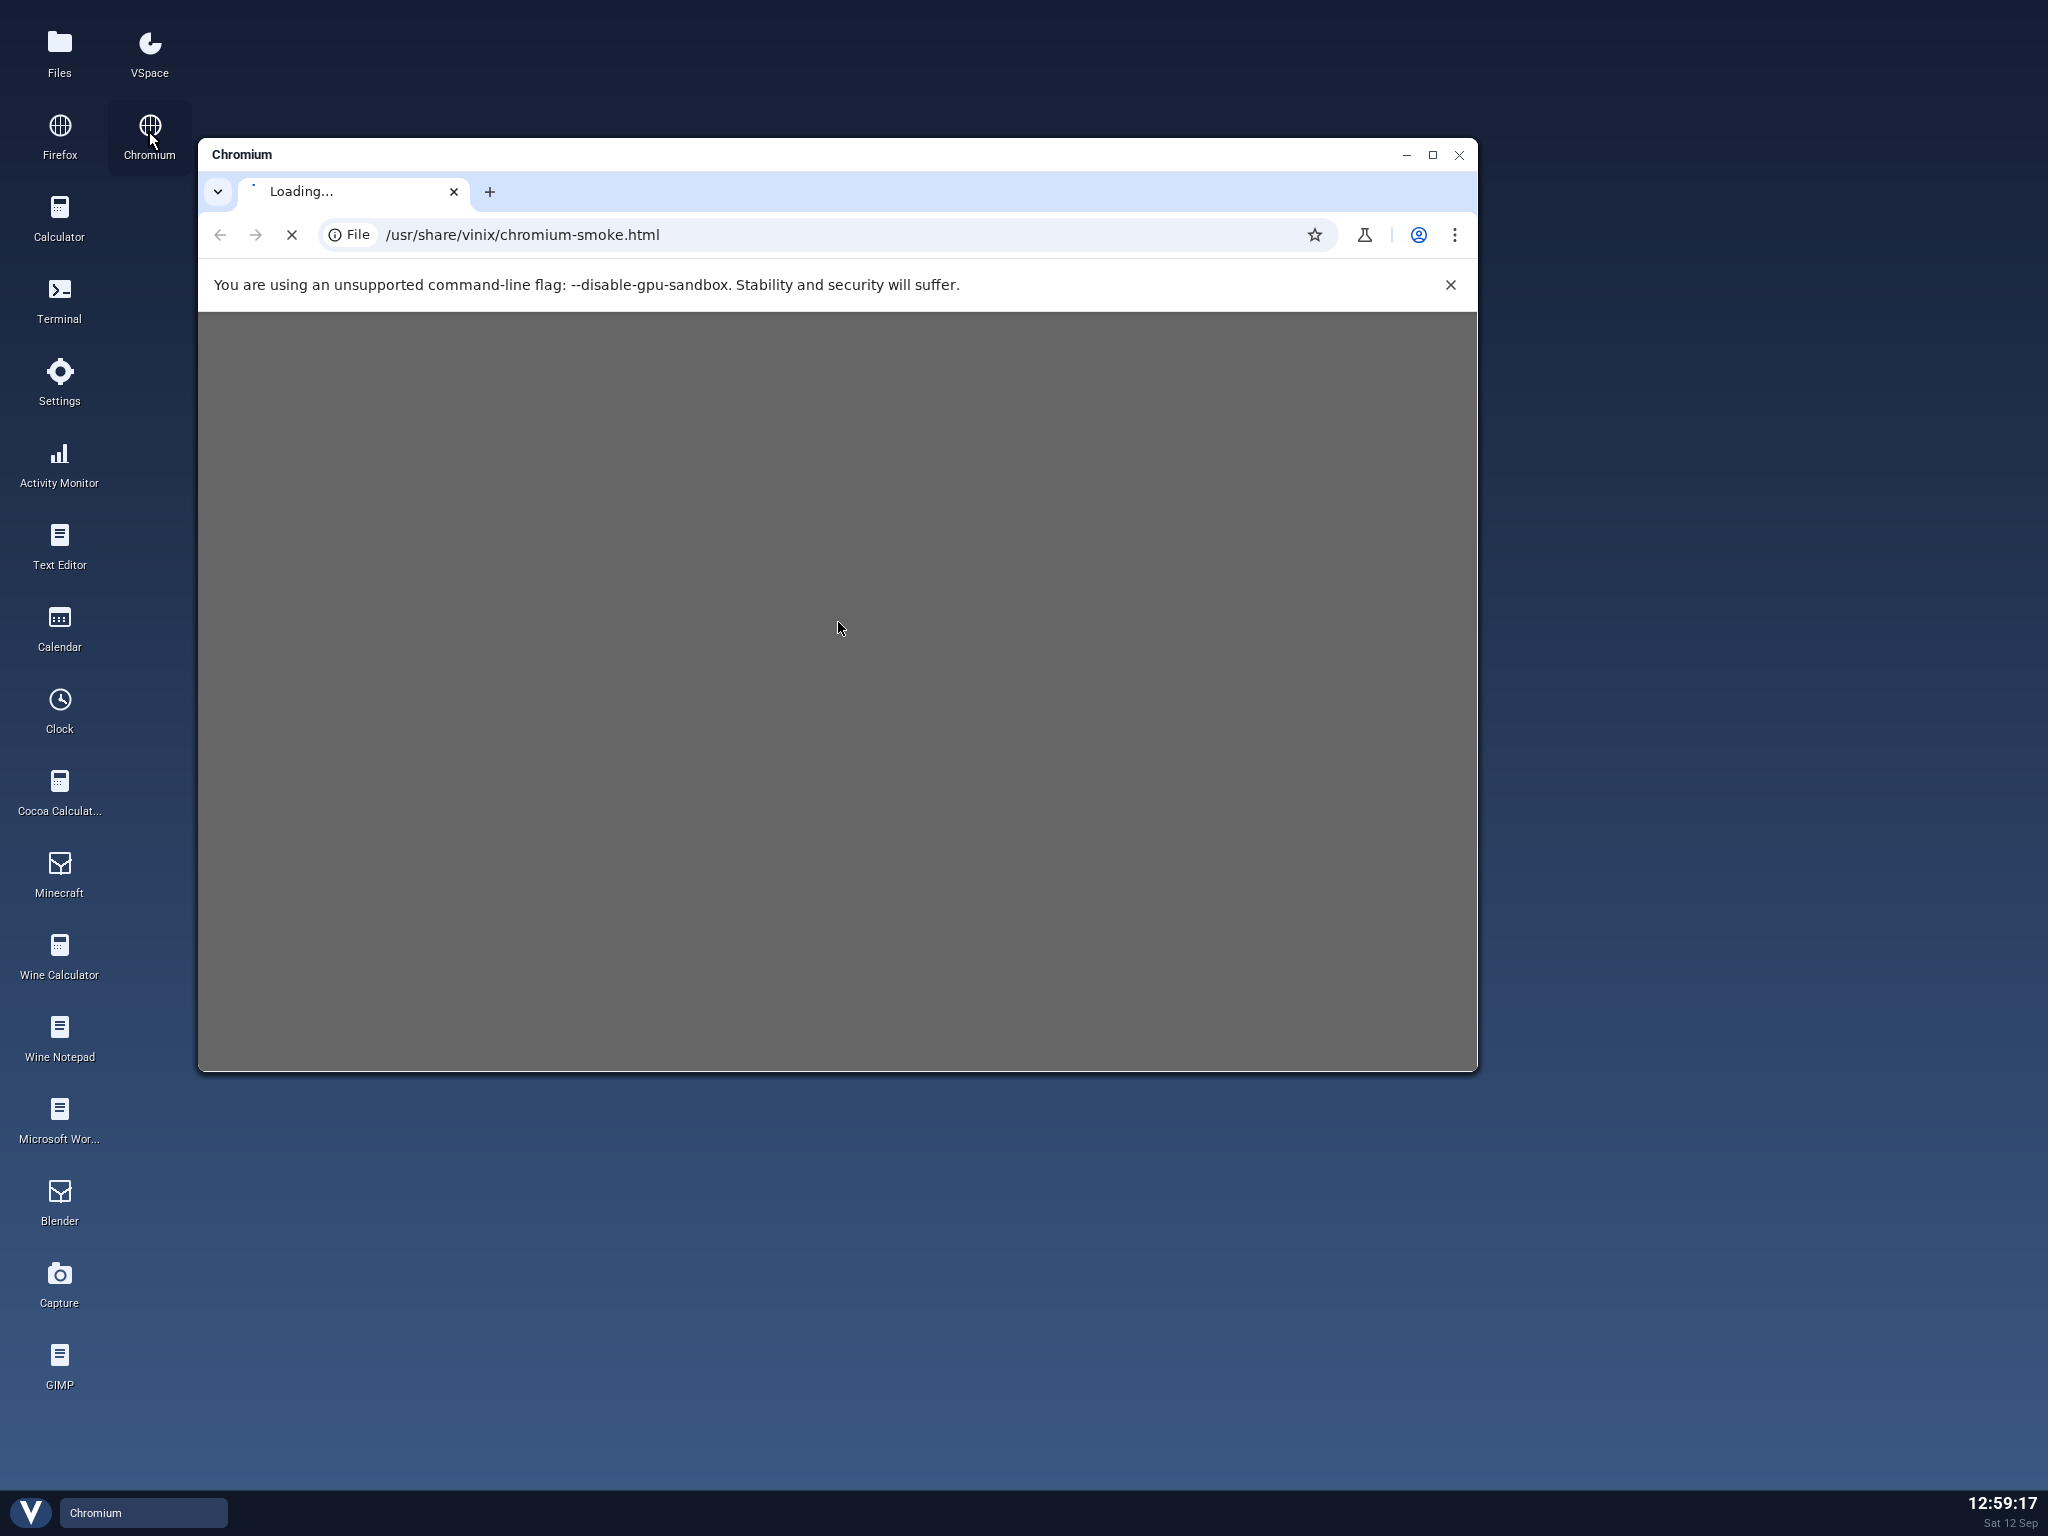
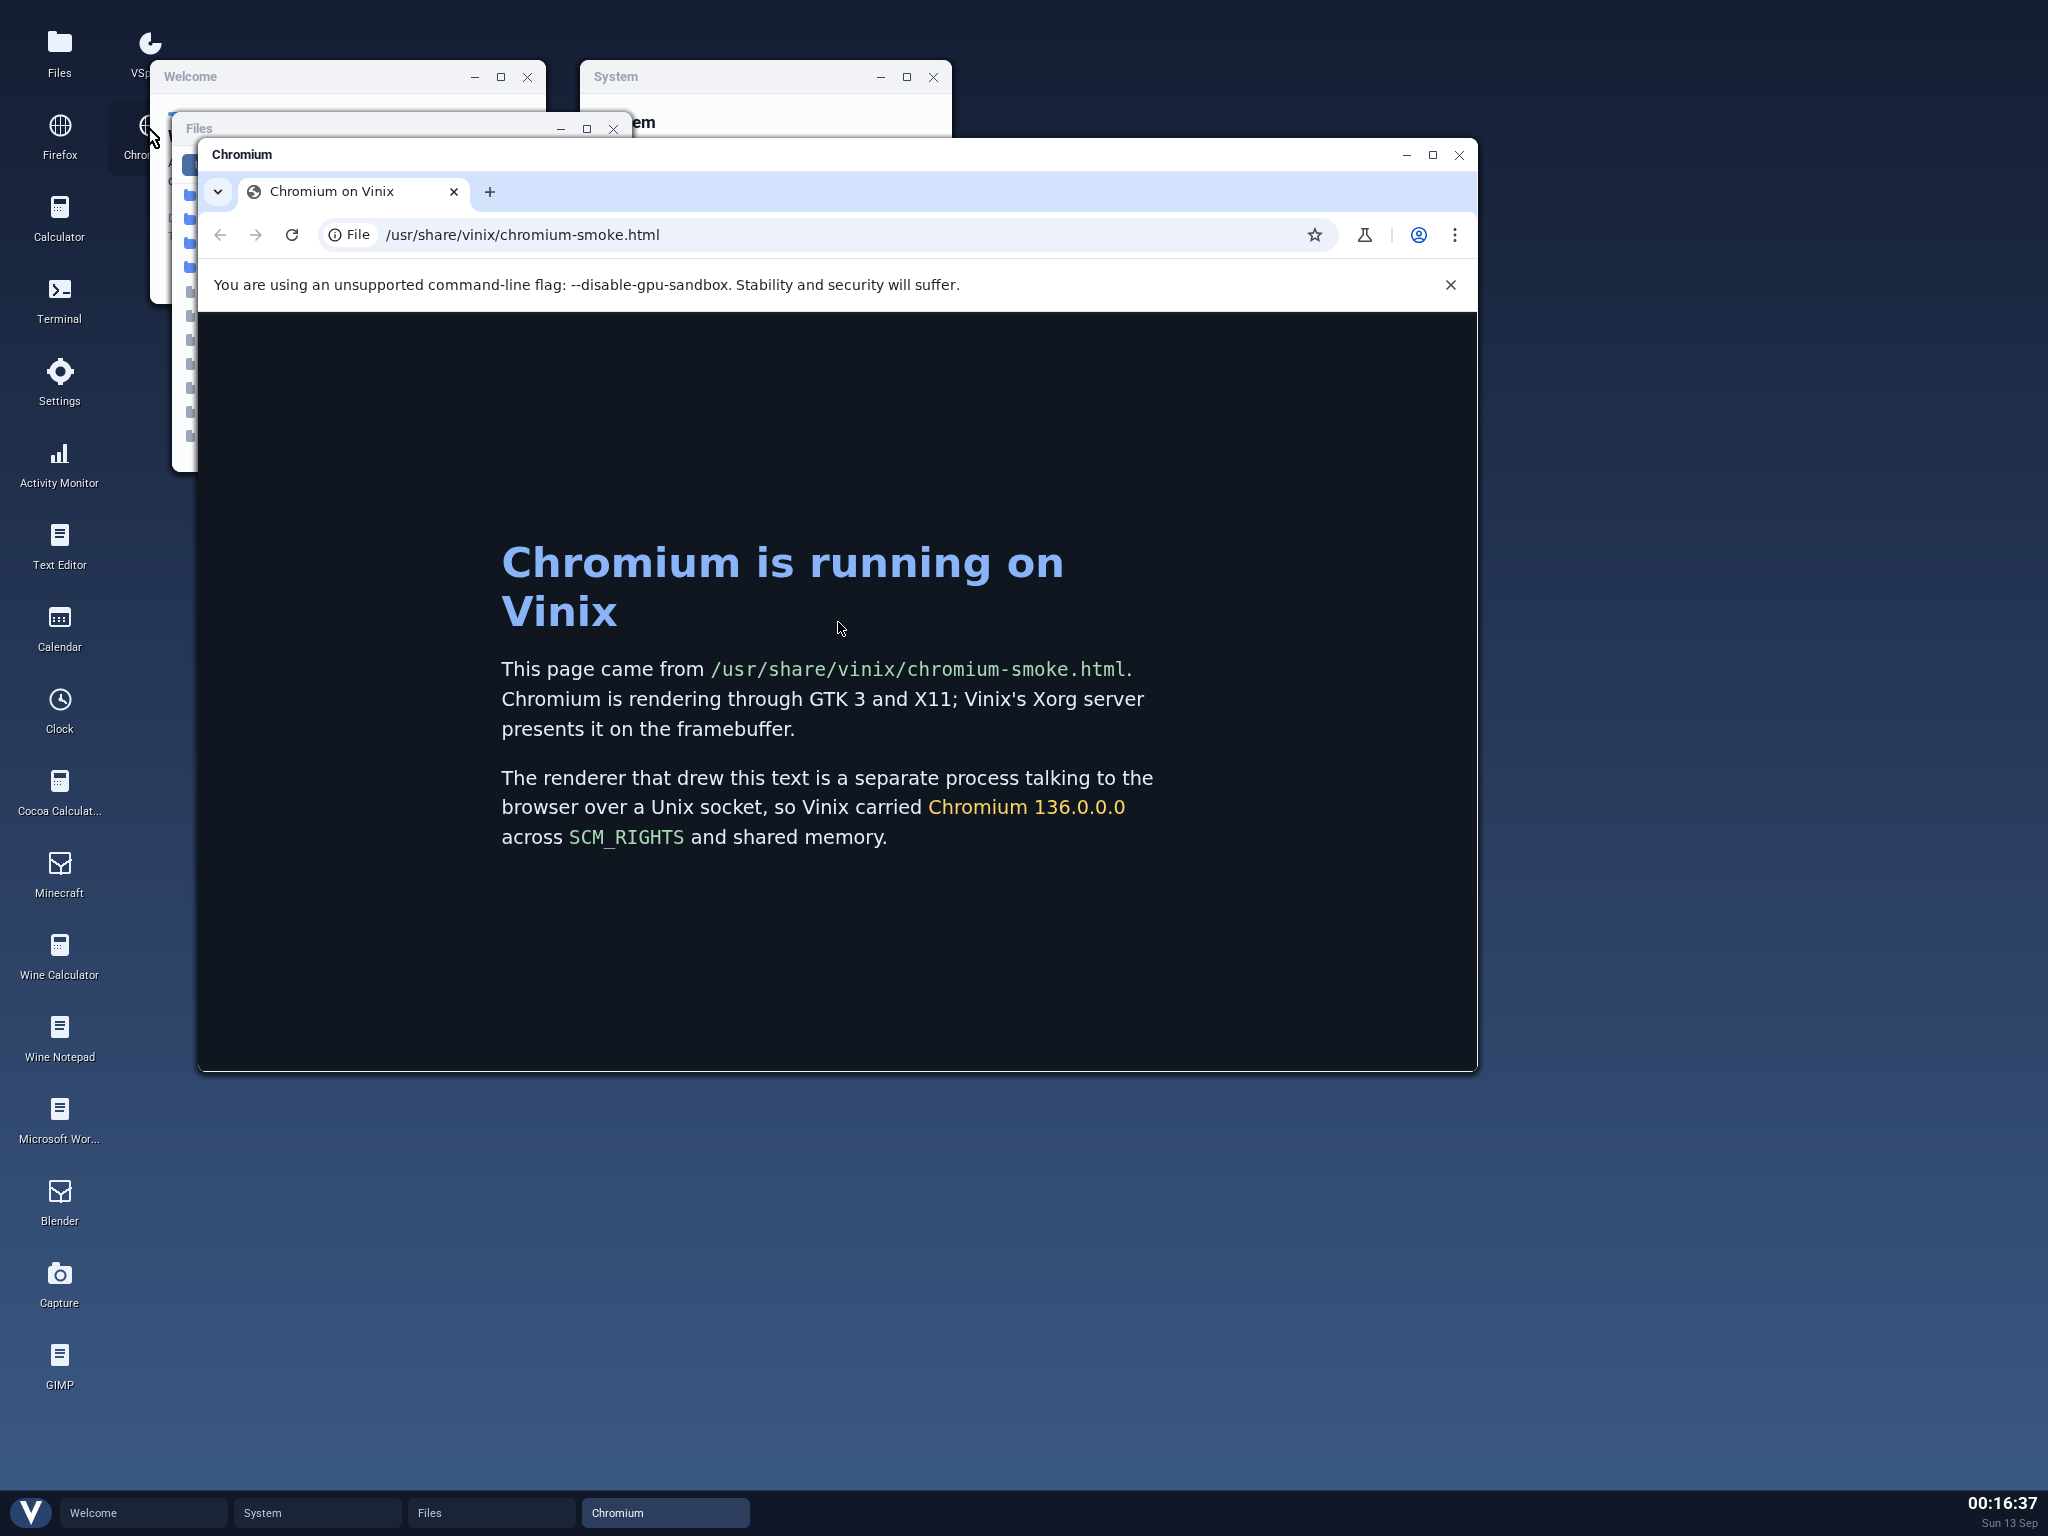
proc: keep a released pid out of use while its group still exists
A process group outlives the process that named it: the leader can exit while
its members keep running, and the group keeps its number. Handing that number
straight back to the next process to be created gives a process a pid equal to
the group it just inherited from its parent, which makes it the leader of a
group it never created -- and a leader is refused a session of its own.

Chromium met this four processes below the browser. Its crash handler forks,
the fork lands on the pid of a browser process that had already exited after
calling setsid(), and setsid() in the new process returns EPERM. Crashpad
treats that as fatal, so the browser died on every launch from the desktop with
nothing on screen but "Chromium exited."

So skip a candidate pid that any live process still names as its process group
or its session, which is the rule Linux keeps for the same reason.

diff --git a/tests/qemu-core/test.c b/tests/qemu-core/test.c
@@ -279,6 +279,58 @@ static int test_shared_mapping_visible_to_readers(void)
 	return 0;
 }
 
+/* A process group outlives the process that named it. If the leader's pid is
+ * handed to a new process while the group still has members, that process can
+ * be given a pid equal to the group it inherits -- making it a group leader by
+ * accident, and refusing it a session of its own. Chromium's crash handler,
+ * four processes below the browser, treats that refusal as fatal.
+ *
+ * A: leader of its own session. B: its child, which keeps the group alive
+ * after A exits. C: B's child, which must not be handed A's released pid. */
+static int test_released_pid_is_not_reused_while_its_group_lives(void)
+{
+	int result[2];
+	CHECK(pipe(result) == 0);
+
+	pid_t a = fork();
+	CHECK(a >= 0);
+	if (a == 0) {
+		close(result[0]);
+		if (setsid() == -1)
+			_exit(1);
+		pid_t b = fork();
+		if (b < 0)
+			_exit(1);
+		if (b == 0) {
+			/* Outlive A, so its pid is free while its group is not. */
+			sleep(2);
+			pid_t c = fork();
+			if (c < 0)
+				_exit(1);
+			if (c == 0) {
+				unsigned char inherited_its_own_group =
+				    (getpid() == getpgid(0)) ? 1 : 0;
+				ssize_t wrote = write(result[1],
+				    &inherited_its_own_group, 1);
+				_exit(wrote == 1 ? 0 : 1);
+			}
+			int status = 0;
+			waitpid(c, &status, 0);
+			_exit(0);
+		}
+		_exit(0);
+	}
+
+	CHECK(close(result[1]) == 0);
+	CHECK(reap_ok(a) == 0);
+	unsigned char inherited_its_own_group = 1;
+	CHECK(read(result[0], &inherited_its_own_group, 1) == 1);
+	CHECK(inherited_its_own_group == 0);
+	CHECK(close(result[0]) == 0);
+	puts("QEMU CORE PASS: a released pid stays out of use while its group lives");
+	return 0;
+}
+
 static int test_locks(void)
 {
 	int fd = open(file_c, O_RDWR);
@@ -569,6 +621,7 @@ static int run_tests(void)
 	CHECK(prepare_directory() == 0);
 	CHECK(test_ext2_mapping_and_namespace() == 0);
 	CHECK(test_shared_mapping_visible_to_readers() == 0);
+	CHECK(test_released_pid_is_not_reused_while_its_group_lives() == 0);
 	CHECK(test_locks() == 0);
 	CHECK(test_permissions_and_limits() == 0);
 	CHECK(test_inotify() == 0);

diff --git a/tests/qemu-core/run_vm.py b/tests/qemu-core/run_vm.py
@@ -29,6 +29,7 @@ FEATURE_MARKERS = (
     b"QEMU CORE PASS: copy-on-write fork",
     b"QEMU CORE PASS: ext2 cache, mmap, sync, namespace, timestamps",
     b"QEMU CORE PASS: a shared mapping is visible to every reader",
+    b"QEMU CORE PASS: a released pid stays out of use while its group lives",
     b"QEMU CORE PASS: fcntl and flock exclusion",
     b"QEMU CORE PASS: permissions, umask, and resource limits",
     b"QEMU CORE PASS: inotify events",
